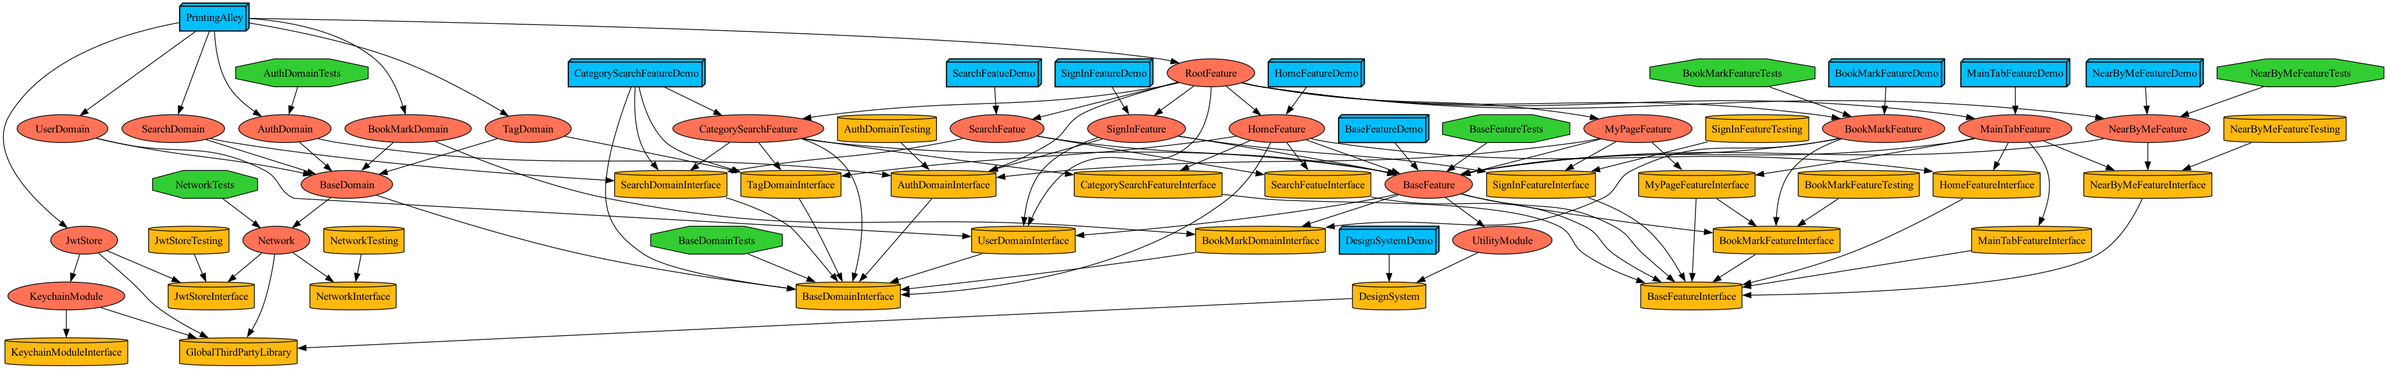
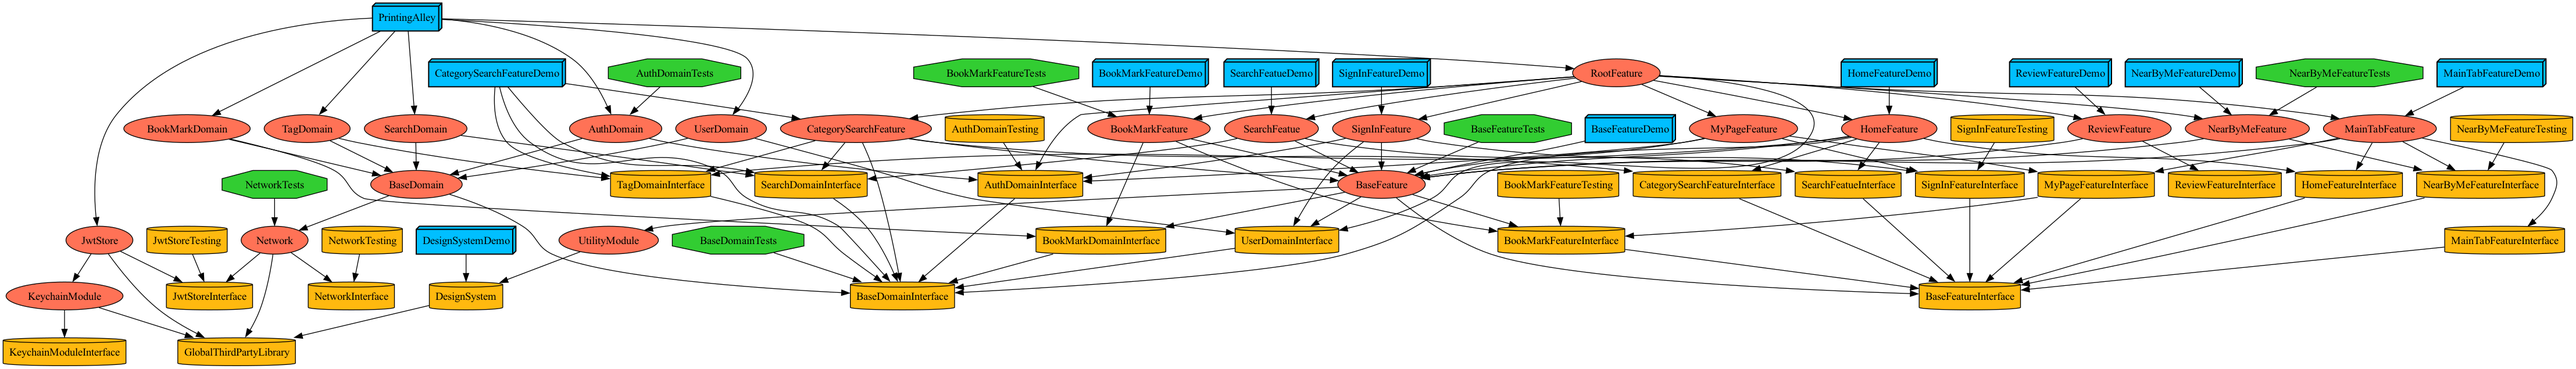
:zap: :: 데모앱 실기기 테스트 성공

diff --git a/Projects/Feature/ReviewFeature/Demo/Sources/ReviewViewController.swift b/Projects/Feature/ReviewFeature/Demo/Sources/ReviewViewController.swift
@@ -7,24 +7,176 @@
 //
 
 import UIKit
+import SnapKit
+import Then
+import UtilityModule
+import PhotosUI
+import RxCocoa
+import RxSwift
 
 class ReviewViewController: UIViewController {
 
-    override func viewDidLoad() {
-        super.viewDidLoad()
-
-        // Do any additional setup after loading the view.
+    lazy var button: UIButton = UIButton().then {
+        $0.setTitle("ju", for: .normal)
+        $0.addTarget(self, action: #selector(tap), for: .touchUpInside)
     }
     
-
-    /*
-    // MARK: - Navigation
-
-    // In a storyboard-based application, you will often want to do a little preparation before navigation
-    override func prepare(for segue: UIStoryboardSegue, sender: Any?) {
-        // Get the new view controller using segue.destination.
-        // Pass the selected object to the new view controller.
+    lazy var imageView: UIImageView = UIImageView().then {
+        $0.contentMode = .scaleAspectFill
     }
-    */
+    
+    
+    let disposeBag = DisposeBag()
+    var viewModel: ReviewViewModel!
+    var input: ReviewViewModel.Input = ReviewViewModel.Input()
+    
+    
+    init(viewModel: ReviewViewModel) {
+        super.init(nibName: nil, bundle: nil)
+        self.viewModel = viewModel
+    }
+    
+    required init?(coder: NSCoder) {
+        fatalError("init(coder:) has not been implemented")
+    }
+    
+    override func viewDidLoad() {
+        super.viewDidLoad()
+        
+        self.view.addSubviews(button,imageView)
+        makeConstraints()
+        bindViewModel()
+        
 
+
+    }
+    
+    
+    @objc func tap() {
+        let alert =  UIAlertController(title: nil, message: nil, preferredStyle: .actionSheet)
+            let library =  UIAlertAction(title: "앨범", style: .default) { _ in
+                self.requestPhotoLibraryPermission()
+            }
+            let camera =  UIAlertAction(title: "카메라", style: .default) { _ in
+                self.requestCameraPermission()
+            }
+            let cancel = UIAlertAction(title: "취소", style: .cancel, handler: nil)
+
+            alert.addAction(library)
+            alert.addAction(camera)
+            alert.addAction(cancel)
+            self.present(alert, animated: true, completion: nil)
+    }
+    
+    
+    func makeConstraints() {
+        button.snp.makeConstraints {
+            $0.center.equalToSuperview()
+        }
+        
+        imageView.snp.makeConstraints {
+            $0.top.equalTo(button.snp.bottom).offset(10)
+            $0.centerX.equalToSuperview()
+            $0.width.height.equalTo(100)
+        }
+    }
+    
+    func bindViewModel() {
+        let output = viewModel.transform(input: input)
+        
+        bindDataSource(output: output)
+        
+    }
+    
+    func bindDataSource(output: ReviewViewModel.Output) {
+        
+        output.dataSource
+            .withUnretained(self)
+            .observe(on: MainScheduler.instance)
+            .subscribe(onNext: { (owner,data) in
+                
+                owner.imageView.image = UIImage(data: data)
+                
+                
+            })
+            .disposed(by: disposeBag)
+           
+
+    }
+
+}
+
+
+extension ReviewViewController: RequestPermissionable {
+    func showCamera() {
+        let camera = UIImagePickerController()
+        camera.sourceType = .camera
+        camera.allowsEditing = true
+        camera.cameraDevice = .rear
+        camera.cameraCaptureMode = .photo
+        camera.delegate = self
+        self.present(camera, animated: true, completion: nil)
+    }
+    
+    func showPhotoLibrary() {
+        var configuration = PHPickerConfiguration()
+        configuration.filter = .any(of: [.images])
+        configuration.selectionLimit = 1
+        let picker = PHPickerViewController(configuration: configuration)
+        picker.delegate = self
+        picker.modalPresentationStyle = .fullScreen
+        self.present(picker, animated: true)
+    }
+    
+    
+}
+
+extension ReviewViewController: UIImagePickerControllerDelegate,UINavigationControllerDelegate {
+    func imagePickerController(_ picker: UIImagePickerController, didFinishPickingMediaWithInfo info: [UIImagePickerController.InfoKey : Any]) {
+        
+        guard let image = info[UIImagePickerController.InfoKey.editedImage] as? UIImage else {
+                   return
+        }
+    
+        
+        guard let imageToData = image.pngData() else { return }
+        
+        self.input.dataSource.onNext(imageToData)
+        picker.dismiss(animated: true, completion: nil)
+    }
+    
+    func imagePickerControllerDidCancel(_ picker: UIImagePickerController) {
+        picker.dismiss(animated: true, completion: nil)
+    }
+}
+
+extension ReviewViewController: PHPickerViewControllerDelegate {
+    func picker(_ picker: PHPickerViewController, didFinishPicking results: [PHPickerResult]) {
+        picker.dismiss(animated: true)
+        
+        
+        results.forEach{
+            
+            let provider = $0.itemProvider
+            
+            if provider.canLoadObject(ofClass: UIImage.self) {
+                
+                provider.loadObject(ofClass: UIImage.self) {[weak self]  image, error in
+                    
+                    guard let self else {return}
+                    
+                    guard let image = image as? UIImage, let imageToData = image.pngData() else { return }
+                    
+                    input.dataSource.onNext(imageToData)
+                    
+                }
+                
+            }
+            
+        }
+        
+        
+    }
+    
+    
 }

diff --git a/Projects/Feature/ReviewFeature/Demo/Sources/ReviewViewModel.swift b/Projects/Feature/ReviewFeature/Demo/Sources/ReviewViewModel.swift
@@ -1,0 +1,39 @@
+//
+//  ReviewViewModel.swift
+//  ReviewFeatureDemo
+//
+//  Created by yongbeomkwak on 10/28/23.
+//  Copyright © 2023 com. All rights reserved.
+//
+
+import Foundation
+import UtilityModule
+import RxSwift
+import RxRelay
+
+
+class ReviewViewModel: ViewModelType {
+    
+    let disposeBag = DisposeBag()
+    
+    struct Input {
+        let dataSource: PublishSubject<Data> = .init()
+    }
+    
+    struct Output {
+        let dataSource: PublishRelay<Data> = .init()
+    }
+    
+    
+    
+    func transform(input: Input) -> Output {
+        let output = Output()
+        
+        input.dataSource
+            .bind(to: output.dataSource)
+            .disposed(by: disposeBag)
+        
+        return output
+    }
+    
+}

diff --git a/Projects/Feature/ReviewFeature/Demo/Sources/AppDelegate.swift b/Projects/Feature/ReviewFeature/Demo/Sources/AppDelegate.swift
@@ -9,8 +9,7 @@ final class AppDelegate: UIResponder, UIApplicationDelegate {
         didFinishLaunchingWithOptions launchOptions: [UIApplication.LaunchOptionsKey: Any]? = nil
     ) -> Bool {
         window = UIWindow(frame: UIScreen.main.bounds)
-        let viewController = UIViewController()
-        viewController.view.backgroundColor = .yellow
+        let viewController = ReviewViewController(viewModel: ReviewViewModel())
         window?.rootViewController = viewController
         window?.makeKeyAndVisible()
 
